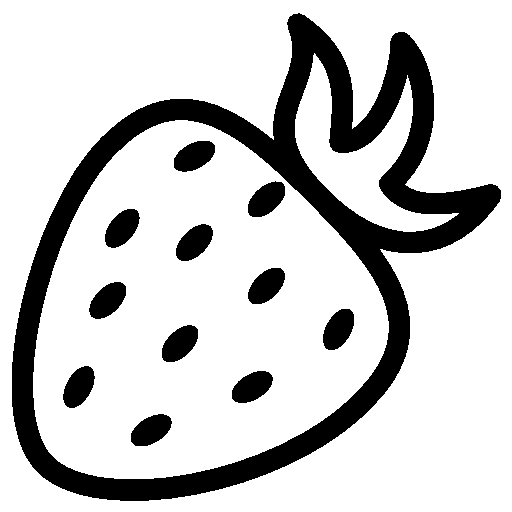
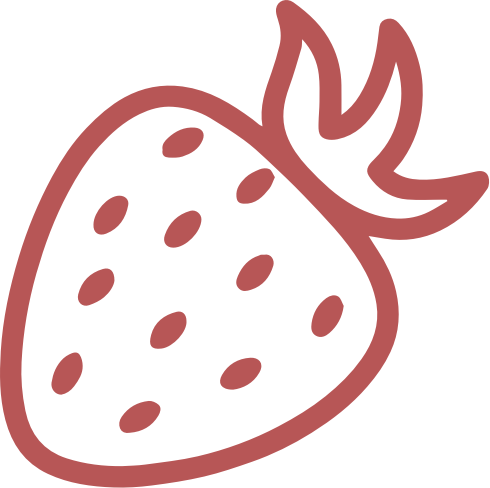
changed color of strawberry

diff --git a/css/styles.css b/css/styles.css
@@ -58,7 +58,7 @@ iframe#article{
     float: left
 }
 #overlay h1, h2 {
-    color: #cf850e;
+
     font-family: Verdana, Arial, Helvetica, sans-serif;
 }
 #overlay p {
@@ -86,13 +86,13 @@ iframe#article{
 }
 
 /*true design*/
-#overlay span.good{
-    color: #37ae49;
+#overlay div.overlay-content.good{
+    color: #b75656;;
 }
 
 /*false design*/
-#overlay span.bad{
-    color: #93000b;
+#overlay div.overlay-content.bad{
+    color: #cf850e;
 }
 
 
